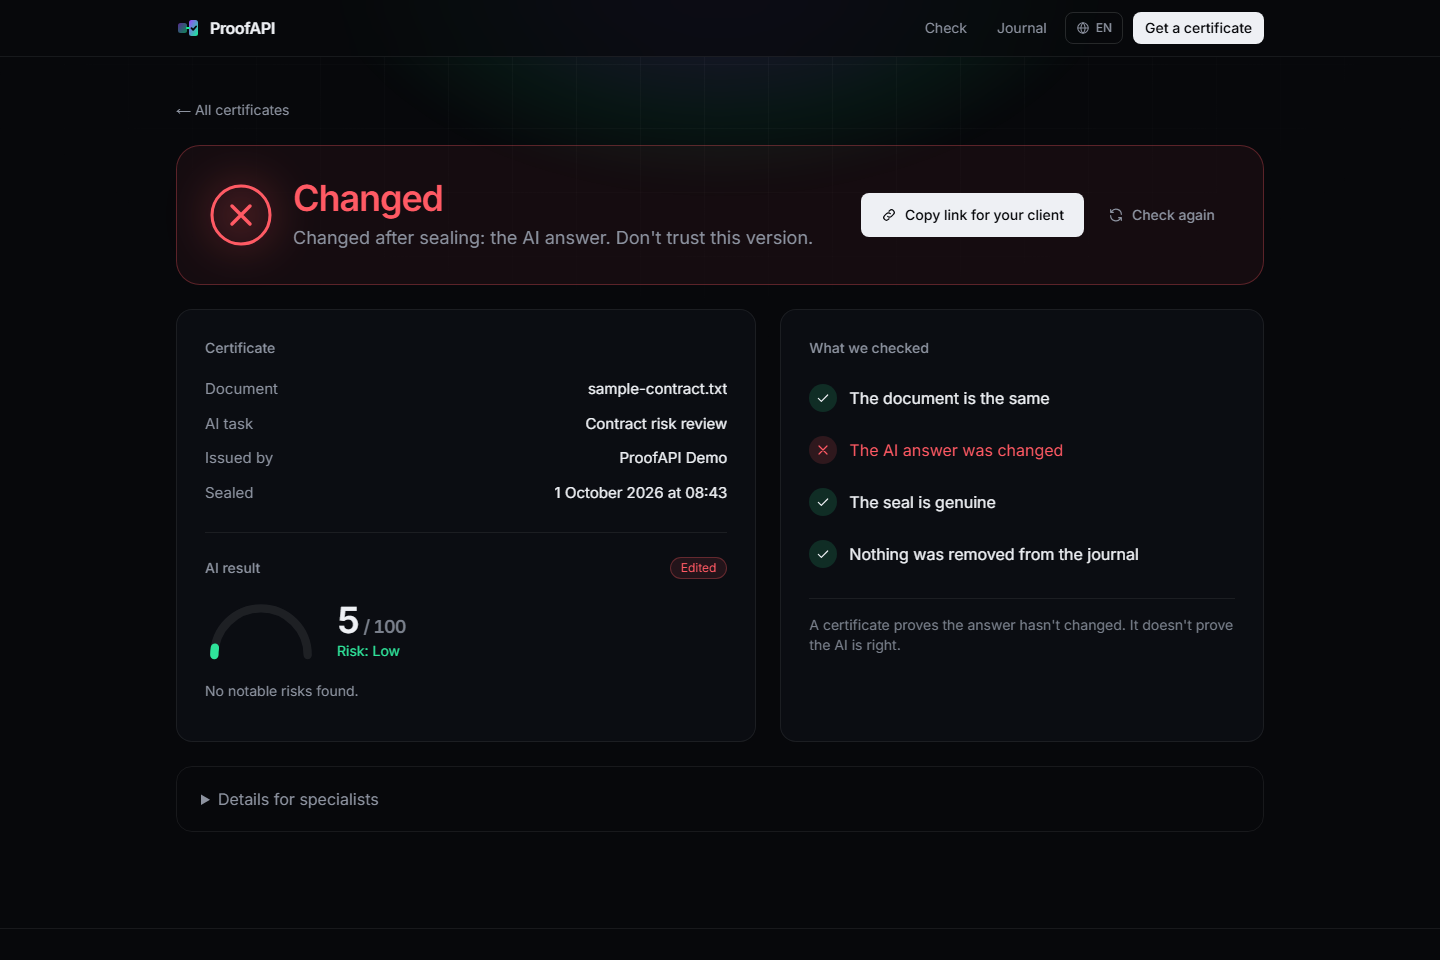
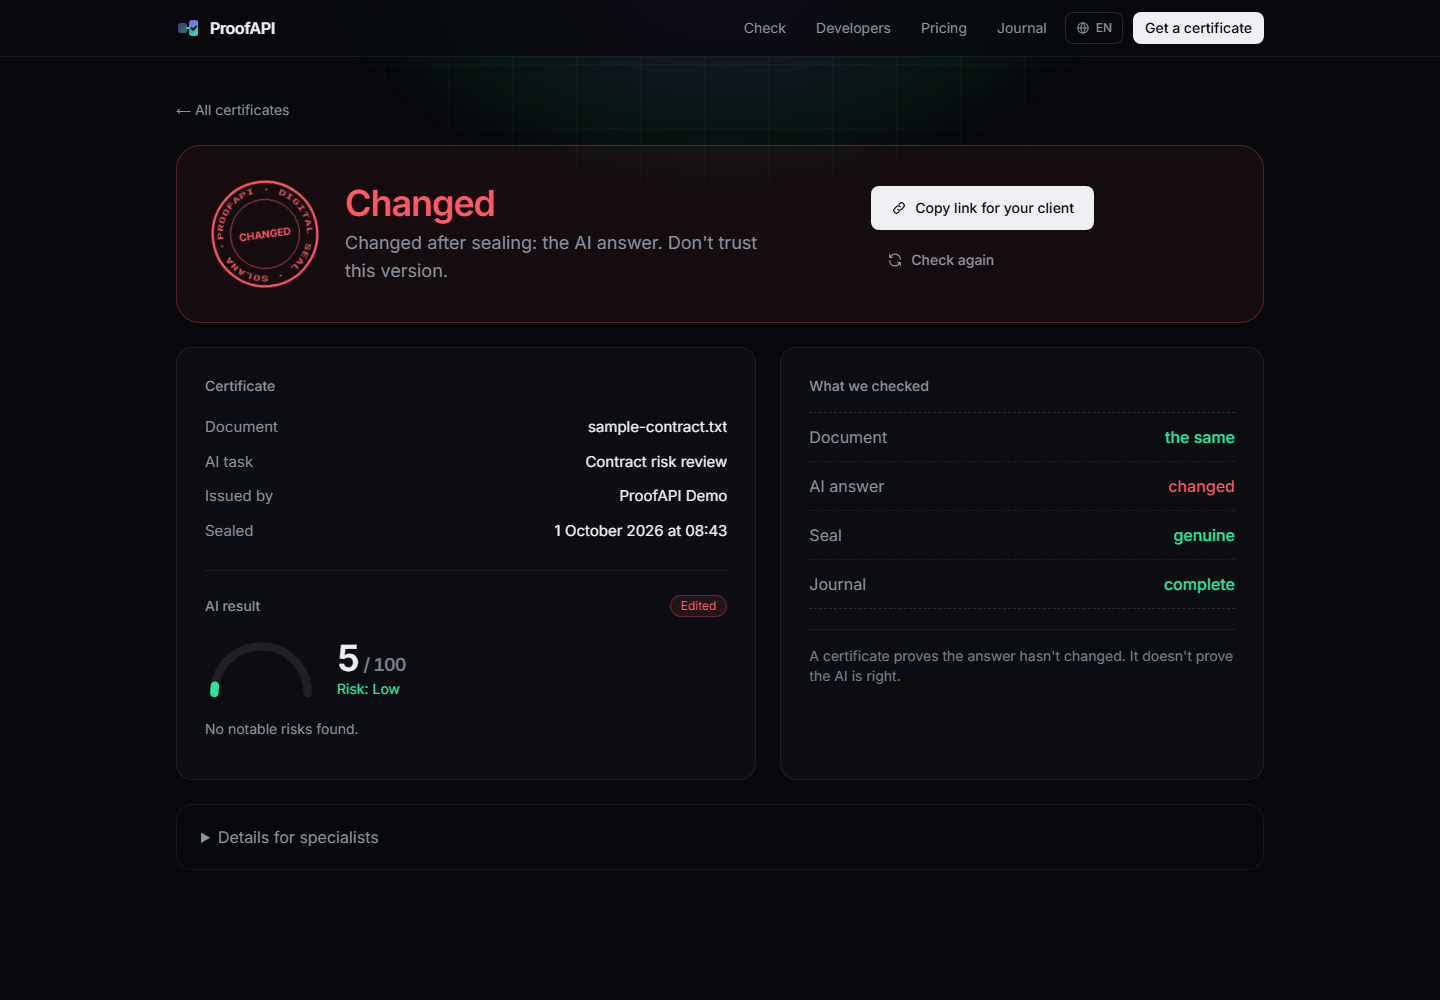
docs: refresh README screenshots for the new design

diff --git a/README.md b/README.md
@@ -73,6 +73,8 @@ Clients' contracts can't be published on a blockchain.
 - English, Russian and Kazakh interface
 - Upload limits per address and per day to protect the server wallet
 
+![API guide for developers](assets/developers.png)
+
 ---
 
 ## Tech Stack
